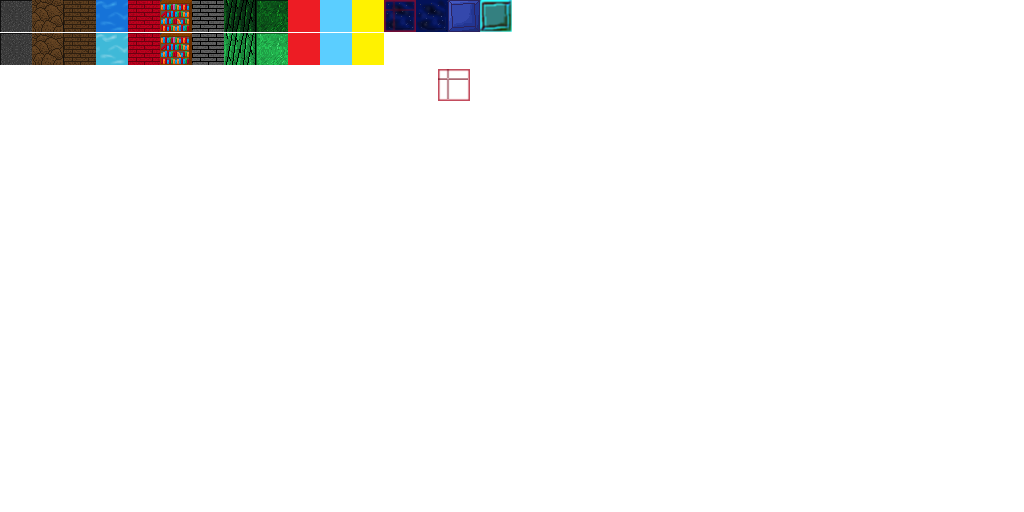
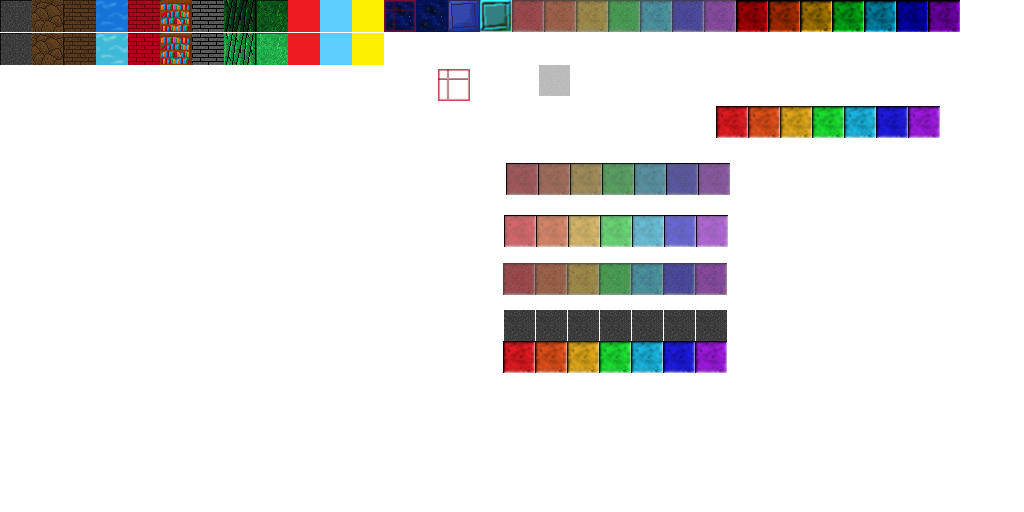
마계 지형, 벽을 추가

diff --git a/th_crawl/map.cpp b/th_crawl/map.cpp
@@ -284,12 +284,30 @@ void map_algorithms(int num)
 		{
 			env[num].AllySafeClear(map_list.dungeon_enter[PANDEMONIUM].floor, map_list.dungeon_enter[PANDEMONIUM].pos);
 			env[num].ClearFloor();
-			map_algorithms02(num,10,0,DG_FLOOR,DG_WALL);
+			map_algorithms02(num,10,0,(dungeon_tile_type)(DG_PANDE_FLOOR1 + randA(6)), (dungeon_tile_type)(DG_PANDE_WALL1 + randA(6)));
 		}
 		else if(num>PANDEMONIUM_LEVEL && num<=PANDEMONIUM_LAST_LEVEL)
 		{
 			env[num].ClearFloor();
-			map_algorithms02(num,5,0,DG_FLOOR,DG_WALL);
+			dungeon_tile_type floor_ = DG_FLOOR;
+			dungeon_tile_type wall_ = DG_FLOOR;
+
+			if (num == PANDEMONIUM_LEVEL + 1)
+			{
+				floor_ = DG_PANDE_FLOOR7;
+				wall_ = DG_PANDE_WALL7;
+			}
+			else if (num == PANDEMONIUM_LEVEL + 2)
+			{
+				floor_ = DG_PANDE_FLOOR4;
+				wall_ = DG_PANDE_WALL4;
+			}
+			else if (num == PANDEMONIUM_LEVEL + 3)
+			{
+				floor_ = DG_PANDE_FLOOR1;
+				wall_ = DG_PANDE_WALL1;
+			}
+			map_algorithms02(num,5,0, floor_, wall_);
 		}
 		else if(num >= SCARLET_LEVEL && num <= SCARLET_LEVEL_LAST_LEVEL)
 		{

diff --git a/th_crawl/tile.cpp b/th_crawl/tile.cpp
@@ -18,6 +18,13 @@ dot_tile_type dungeon_tile::GetDot()
 	case DG_FLOOR2:
 	case DG_GRASS:
 	case DG_DREAM_FLOOR:
+	case DG_PANDE_FLOOR1:
+	case DG_PANDE_FLOOR2:
+	case DG_PANDE_FLOOR3:
+	case DG_PANDE_FLOOR4:
+	case DG_PANDE_FLOOR5:
+	case DG_PANDE_FLOOR6:
+	case DG_PANDE_FLOOR7:
 		return DOT_FLOOR;
 	case DG_WALL:
 	case DG_GLASS:
@@ -29,6 +36,13 @@ dot_tile_type dungeon_tile::GetDot()
 	case DG_METAL_WALL:
 	case DG_WALL2:
 	case DG_WALL3:
+	case DG_PANDE_WALL1:
+	case DG_PANDE_WALL2:
+	case DG_PANDE_WALL3:
+	case DG_PANDE_WALL4:
+	case DG_PANDE_WALL5:
+	case DG_PANDE_WALL6:
+	case DG_PANDE_WALL7:
 	case DG_TREE:
 		return DOT_WALL;
 	case DG_CLOSE_DOOR:
